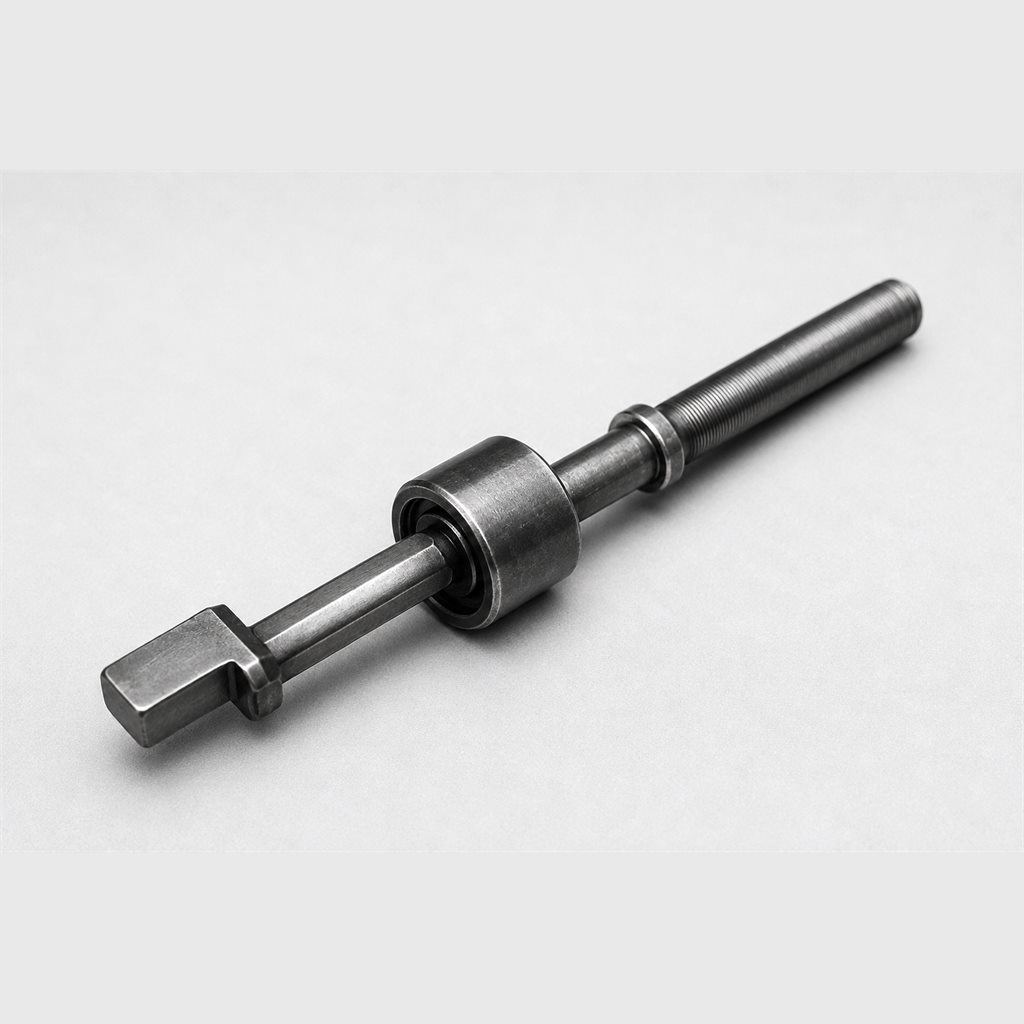
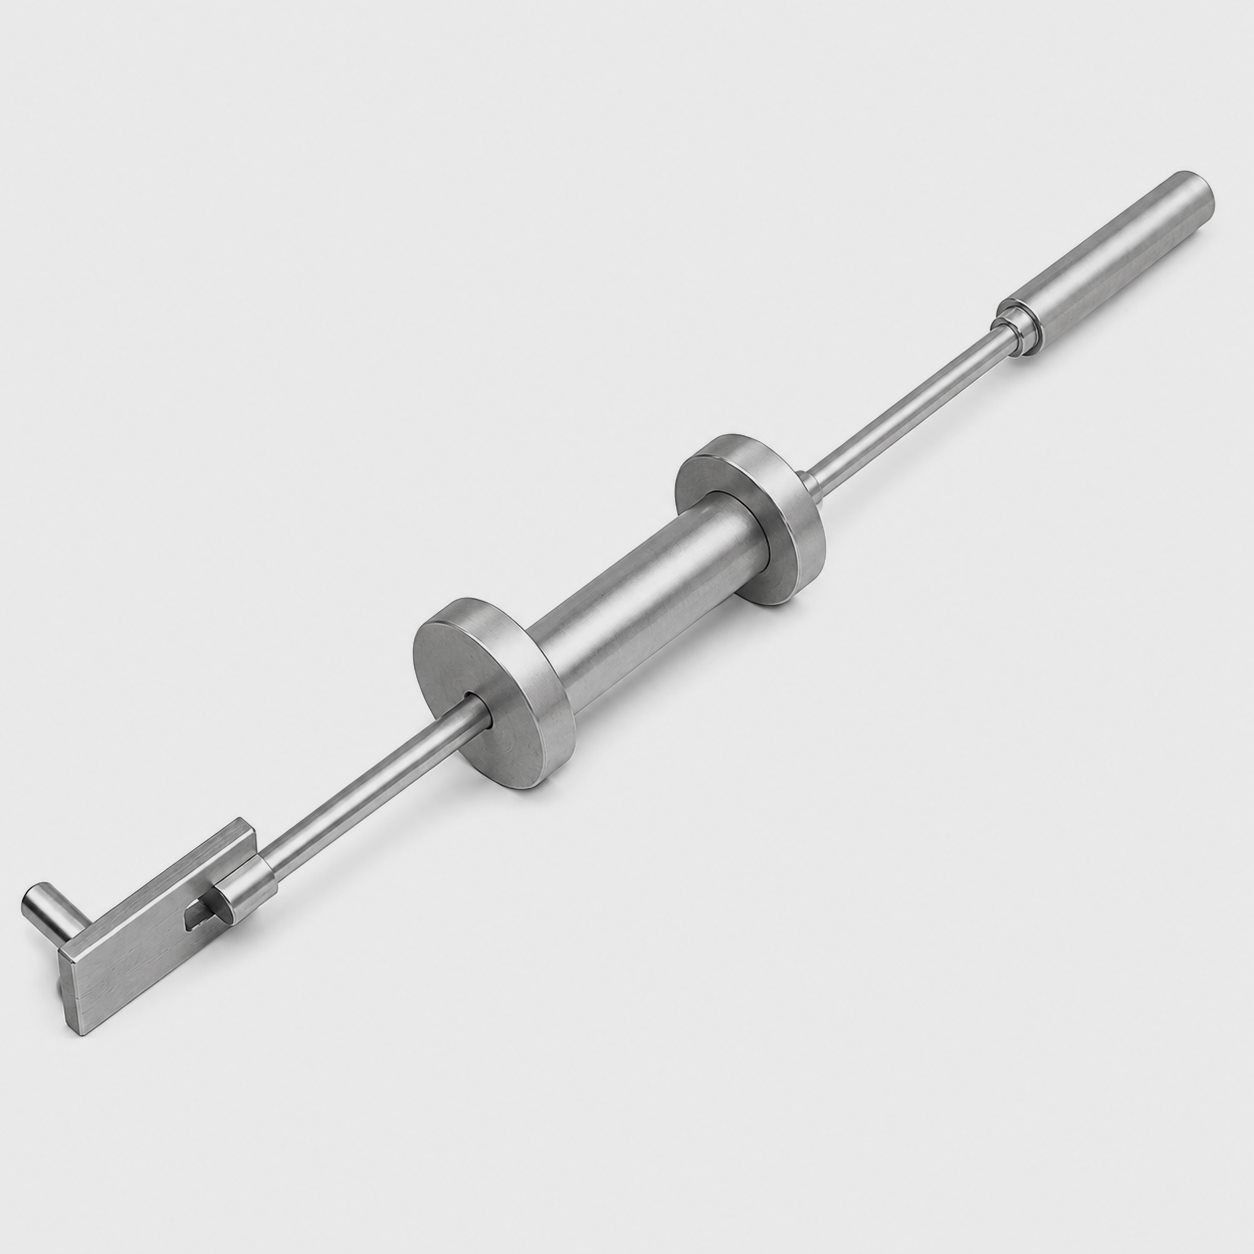
Fotos novas das pecas, secoes alternando claro e escuro, mobile mais responsivo
- 7 fotos de estudio novas (alinhador, desformador, escora metalica,
  guarda corpo, pino roscado, porca, saca faqueta), fundo normalizado
- tema claro por variaveis CSS: catalogo, equipe, como funciona e
  depoimentos ficam claros, alternando com as escuras
- produtos e pinos e cunhas seguem escuros, porque a foto tem fundo claro
- corrige o botao do card de ajuda que estourava a viewport abaixo de 600px
- zero overflow horizontal de 492 a 1920

Changed region(s): [[0.0, 0.125, 0.9688, 0.8438]]

diff --git a/assets/css/style.css b/assets/css/style.css
@@ -165,7 +165,9 @@ html{scrollbar-color:var(--line-hi) var(--ink-950);scrollbar-width:thin}
 /* ============================================================
    ASSINATURA: corte de chapa a plasma
    ============================================================ */
-.cut{position:relative;height:1px;background:var(--line);overflow:visible;z-index:2}
+/* cor neutra semitransparente: a divisória fica entre seções que podem
+   ser claras ou escuras, então não pode depender do tema de nenhuma delas */
+.cut{position:relative;height:1px;background:rgba(130,142,154,.3);overflow:visible;z-index:2}
 .cut i{
   position:absolute;left:0;right:0;top:-1px;height:3px;display:block;
   background:linear-gradient(90deg,
@@ -325,6 +327,76 @@ html{scrollbar-color:var(--line-hi) var(--ink-950);scrollbar-width:thin}
 /* duas seções coladas sem corte no meio somam padding demais */
 .sec + .sec{padding-top:calc(var(--sec) * .5)}
 .sec--alt{background:var(--ink-850)}
+
+/* ============================================================
+   SEÇÃO CLARA
+   O site inteiro usa variáveis, então inverter o tema é redefinir
+   as variáveis dentro da seção. Só o que estava com cor fixa
+   precisa de remendo, e está listado abaixo.
+   ============================================================ */
+.sec--claro{
+  --ink-950:#e7eaed;
+  --ink-900:#f4f6f7;
+  --ink-850:#eceff1;
+  --ink-800:#ffffff;
+  --ink-750:#f7f8f9;
+  --ink-700:#e3e7ea;
+  --line:#dbe0e5;
+  --line-hi:#b9c1c9;
+
+  --steel-100:#12161a;
+  --steel-200:#242b31;
+  --steel-300:#48525b;
+  --steel-400:#5a646e;
+  --steel-500:#77828c;
+
+  /* cromado escuro: no claro a rampa clara sumiria no fundo */
+  --chrome: linear-gradient(178deg,
+    #5a636c 0%, #8b949d 16%, #333b43 34%,
+    #1f262c 47%, #6b747d 52%, #98a1aa 58%,
+    #3f474f 74%, #262d34 88%, #78818a 100%);
+
+  background:var(--ink-900);
+  color:var(--steel-100);
+}
+.sec--claro .chrome{
+  -webkit-text-stroke:0;
+  filter:drop-shadow(0 1px 0 rgba(255,255,255,.7));
+}
+/* brilho de topo dos cards: no claro vira sombra de topo */
+.sec--claro .fam__c::before,
+.sec--claro .pc__c::before,
+.sec--claro .rep__c::before{
+  background:linear-gradient(90deg,transparent,rgba(0,0,0,.1),transparent);
+}
+.sec--claro .fam__c,
+.sec--claro .pc__c,
+.sec--claro .dif__c,
+.sec--claro .steps li,
+.sec--claro .dep,
+.sec--claro .rep__c,
+.sec--claro .custom{
+  background:var(--ink-800);
+  box-shadow:0 1px 2px rgba(16,24,32,.05);
+}
+.sec--claro .fam__c:hover,
+.sec--claro .dif__c:hover,
+.sec--claro .rep__c:hover,
+.sec--claro .steps li:hover{box-shadow:0 18px 34px -22px rgba(16,24,32,.45)}
+.sec--claro .btn--steel,
+.sec--claro .btn--ghost{
+  background:linear-gradient(180deg,rgba(16,24,32,.05),rgba(16,24,32,.015));
+  box-shadow:0 1px 0 rgba(255,255,255,.8) inset;
+}
+.sec--claro .btn--wire{color:var(--fire-600)}
+.sec--claro .btn--wire:hover{color:var(--fire-700);background:rgba(242,106,10,.08)}
+.sec--claro .steps__ico{
+  background:radial-gradient(120% 120% at 50% 0%,rgba(16,24,32,.05),transparent 70%);
+}
+.sec--claro .stat{background:rgba(255,255,255,.86)}
+.sec--claro .marcas li{background:#fff;border-color:var(--line)}
+/* logos ficam sem moldura no claro, o fundo já é claro */
+.sec--claro .marcas li{border-color:#e2e6ea}
 .head{margin-bottom:clamp(2.5rem,5vw,3.75rem);max-width:70ch}
 .head--wide{max-width:78ch}
 .head .lede{margin-top:1.2rem}
@@ -864,12 +936,13 @@ html{scrollbar-color:var(--line-hi) var(--ink-950);scrollbar-width:thin}
   .fam__go{padding:.6rem .75rem .8rem;font-size:.62rem;letter-spacing:.08em}
   .fam__go svg{width:.85rem;height:.85rem}
   .fam__mais{margin-top:1.1rem;font-size:.88rem}
-  .fam__c--ajuda{grid-column:1/-1;flex-direction:row;align-items:center;
-    gap:.9rem;padding:1.1rem 1rem}
+  /* empilhado: em linha o botão de largura total estourava a viewport */
+  .fam__c--ajuda{grid-column:1/-1;flex-direction:column;align-items:stretch;
+    gap:.8rem;padding:1.1rem 1rem}
   .fam__c--ajuda svg{width:1.6rem;height:1.6rem}
   .fam__c--ajuda h3{font-size:.95rem}
   .fam__c--ajuda p{font-size:.82rem;line-height:1.45}
-  .fam__c--ajuda .btn{width:100%;font-size:.88rem;padding:.7rem .9rem}
+  .fam__c--ajuda .btn{width:100%;font-size:.88rem;padding:.75rem .9rem}
 
   .marcas{grid-template-columns:repeat(3,1fr);gap:.5rem}
   .steps{grid-template-columns:1fr 1fr;gap:1.3rem .9rem}

diff --git a/index.html b/index.html
@@ -136,7 +136,7 @@
 </section>
 
 <!-- ============ PRODUTOS ============ -->
-<section class="sec sec--alt" id="produtos">
+<section class="sec" id="produtos">
   <div class="wrap">
     <div class="head reveal">
       <p class="eyebrow">Linha completa</p>
@@ -297,7 +297,7 @@
 <!-- ============ CATÁLOGO ============ -->
 <div class="cut" aria-hidden="true"><i></i></div>
 
-<section class="sec sec--alt" id="catalogo">
+<section class="sec sec--claro" id="catalogo">
   <div class="wrap">
     <div class="head reveal">
       <h2 class="h2">Catálogo <span class="chrome">completo</span></h2>
@@ -424,7 +424,7 @@
 <!-- ============ EQUIPE COMERCIAL ============ -->
 <div class="cut" aria-hidden="true"><i></i></div>
 
-<section class="sec sec--alt" id="equipe">
+<section class="sec sec--claro" id="equipe">
   <div class="wrap">
     <div class="head reveal">
       <p class="eyebrow">Equipe comercial</p>
@@ -476,7 +476,7 @@
 <!-- ============ CLIENTES ============ -->
 <div class="cut" aria-hidden="true"><i></i></div>
 
-<section class="sec" id="clientes">
+<section class="sec sec--alt" id="clientes">
   <div class="wrap">
     <div class="head reveal">
       <p class="eyebrow">Nossos clientes</p>
@@ -501,7 +501,7 @@
 <!-- ============ COMO FUNCIONA ============ -->
 <div class="cut" aria-hidden="true"><i></i></div>
 
-<section class="sec sec--alt" id="como">
+<section class="sec sec--claro" id="como">
   <div class="wrap">
     <div class="head reveal">
       <p class="eyebrow">Simples e rápido</p>
@@ -531,7 +531,7 @@
 </section>
 
 <!-- ============ DIFERENCIAIS ============ -->
-<section class="sec dif">
+<section class="sec sec--alt dif">
   <div class="wrap">
     <div class="head reveal">
       <h2 class="h2">Com tecnologia <span class="chrome">e precisão</span></h2>
@@ -563,7 +563,7 @@
      Substituir pelos reais (nome, cargo, empresa) antes de publicar. -->
 <div class="cut" aria-hidden="true"><i></i></div>
 
-<section class="sec sec--alt" id="depoimentos">
+<section class="sec sec--claro" id="depoimentos">
   <div class="wrap">
     <div class="head reveal">
       <h2 class="h2">Quem confia, <span class="chrome">recomenda</span></h2>
